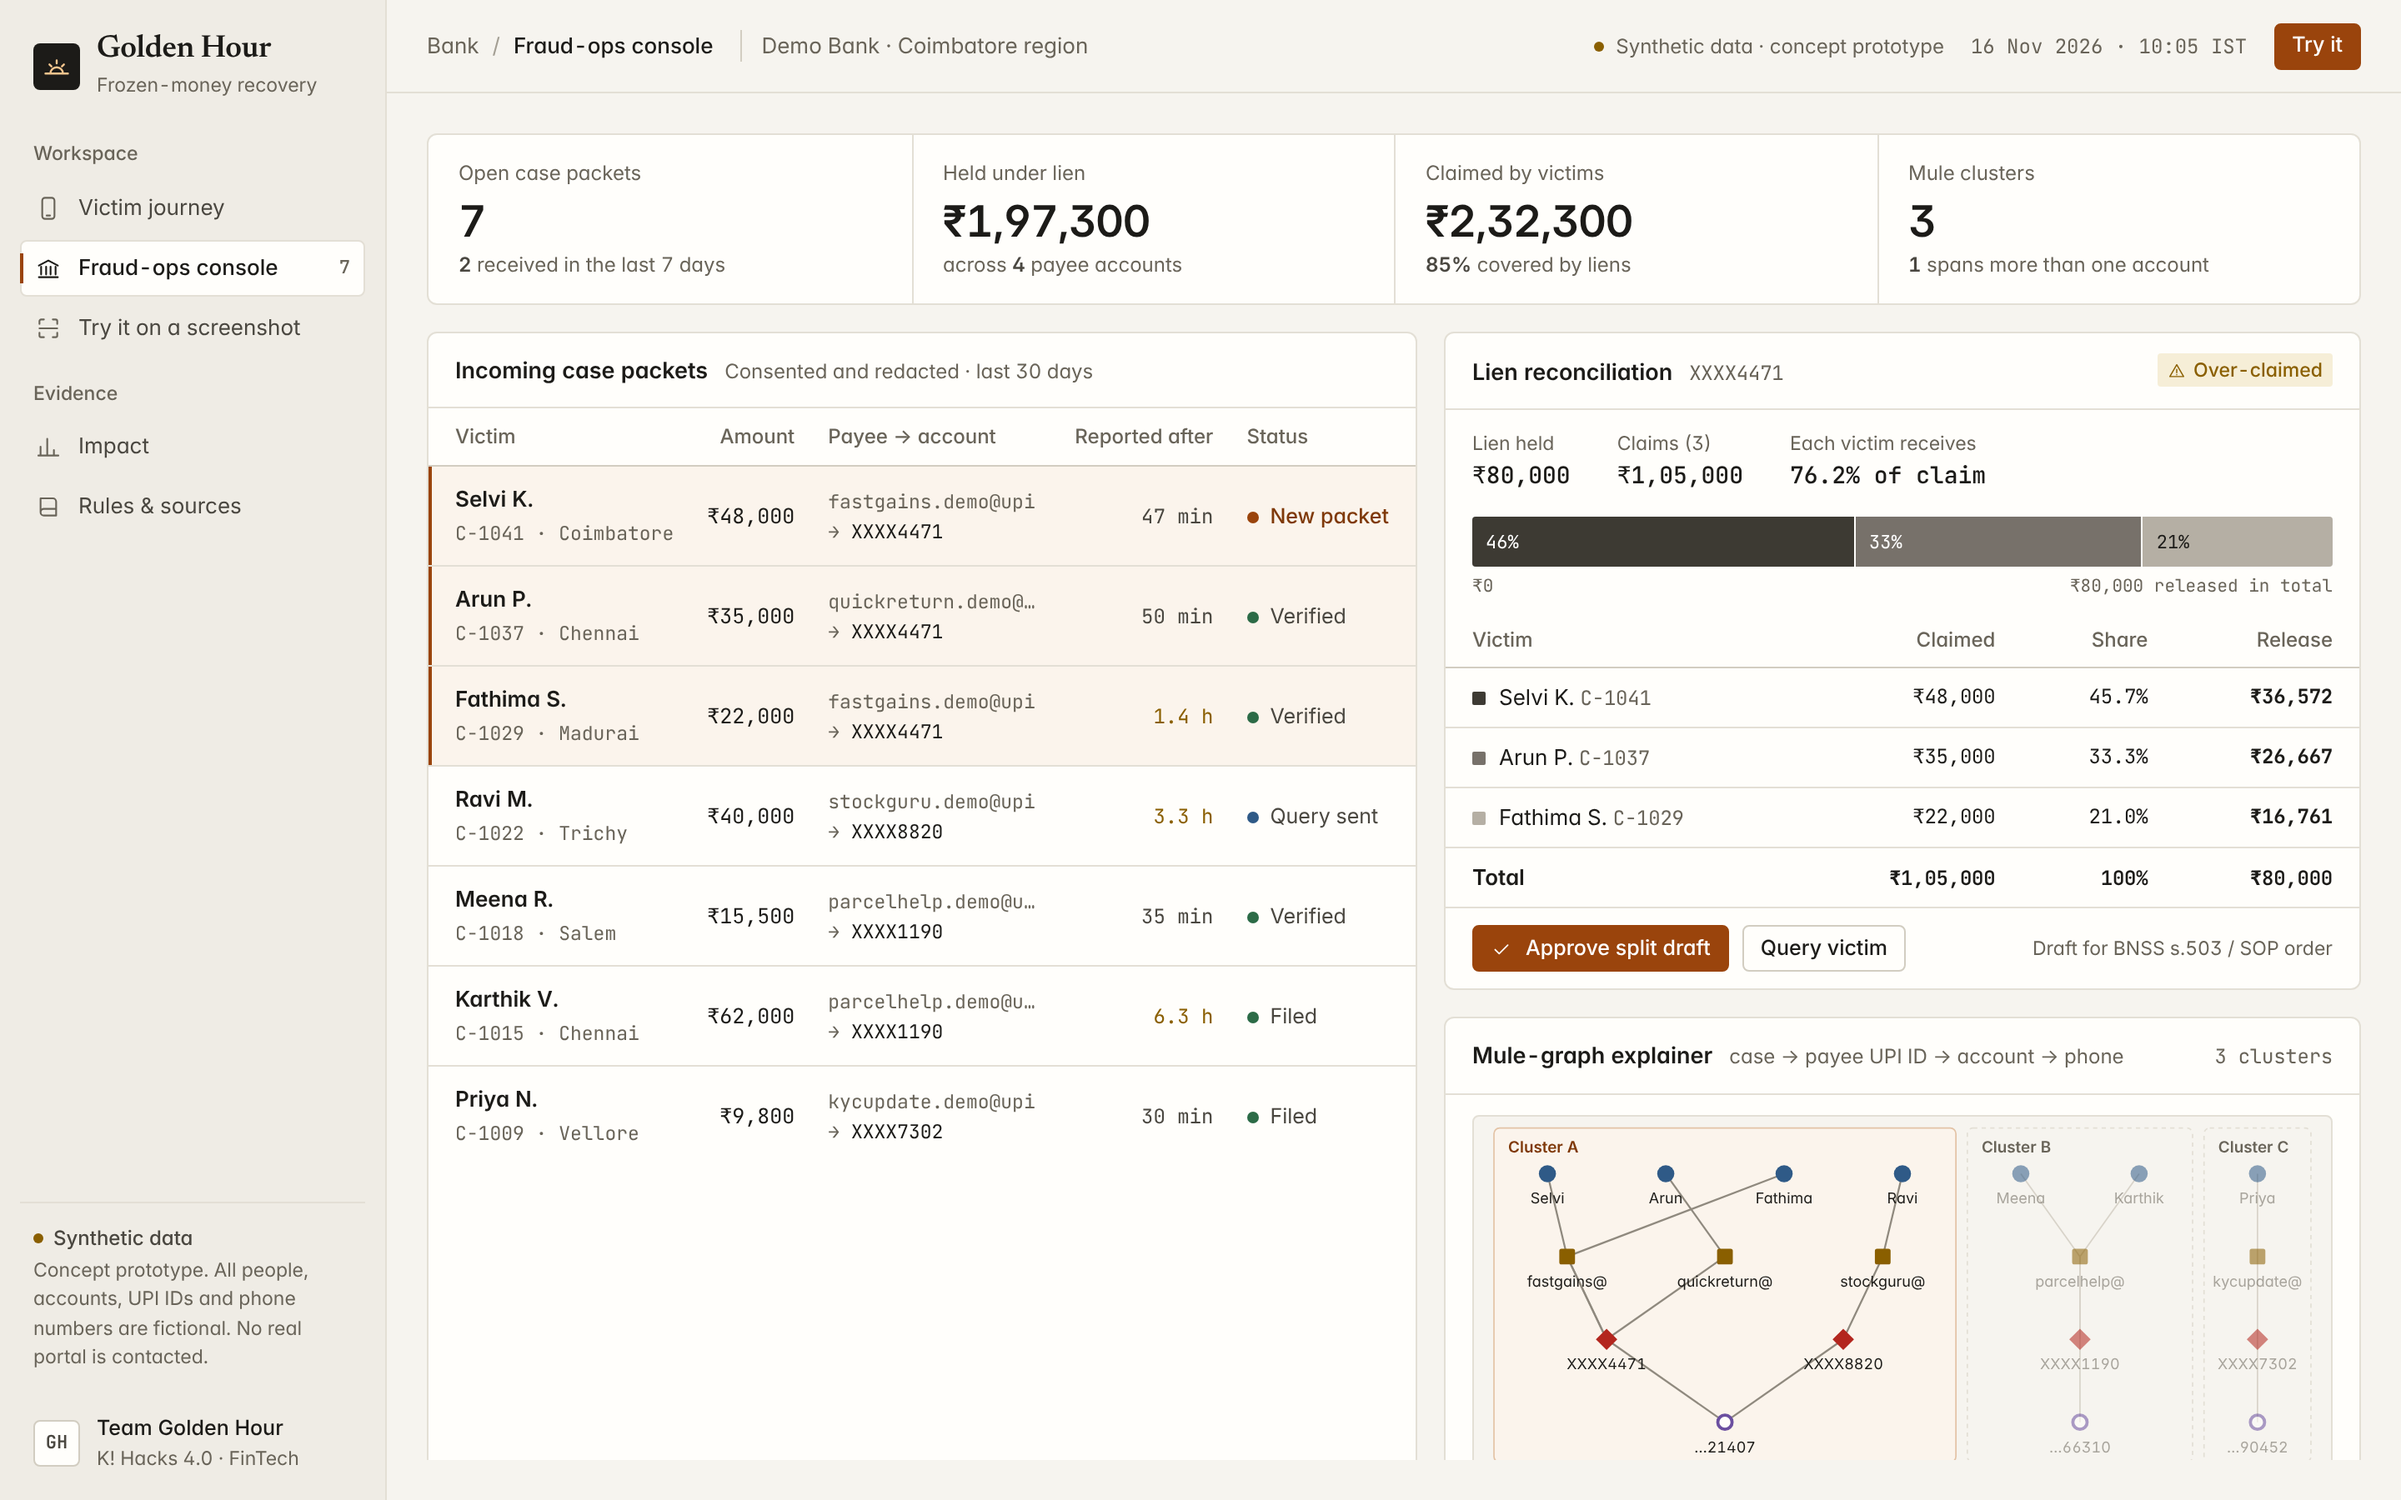
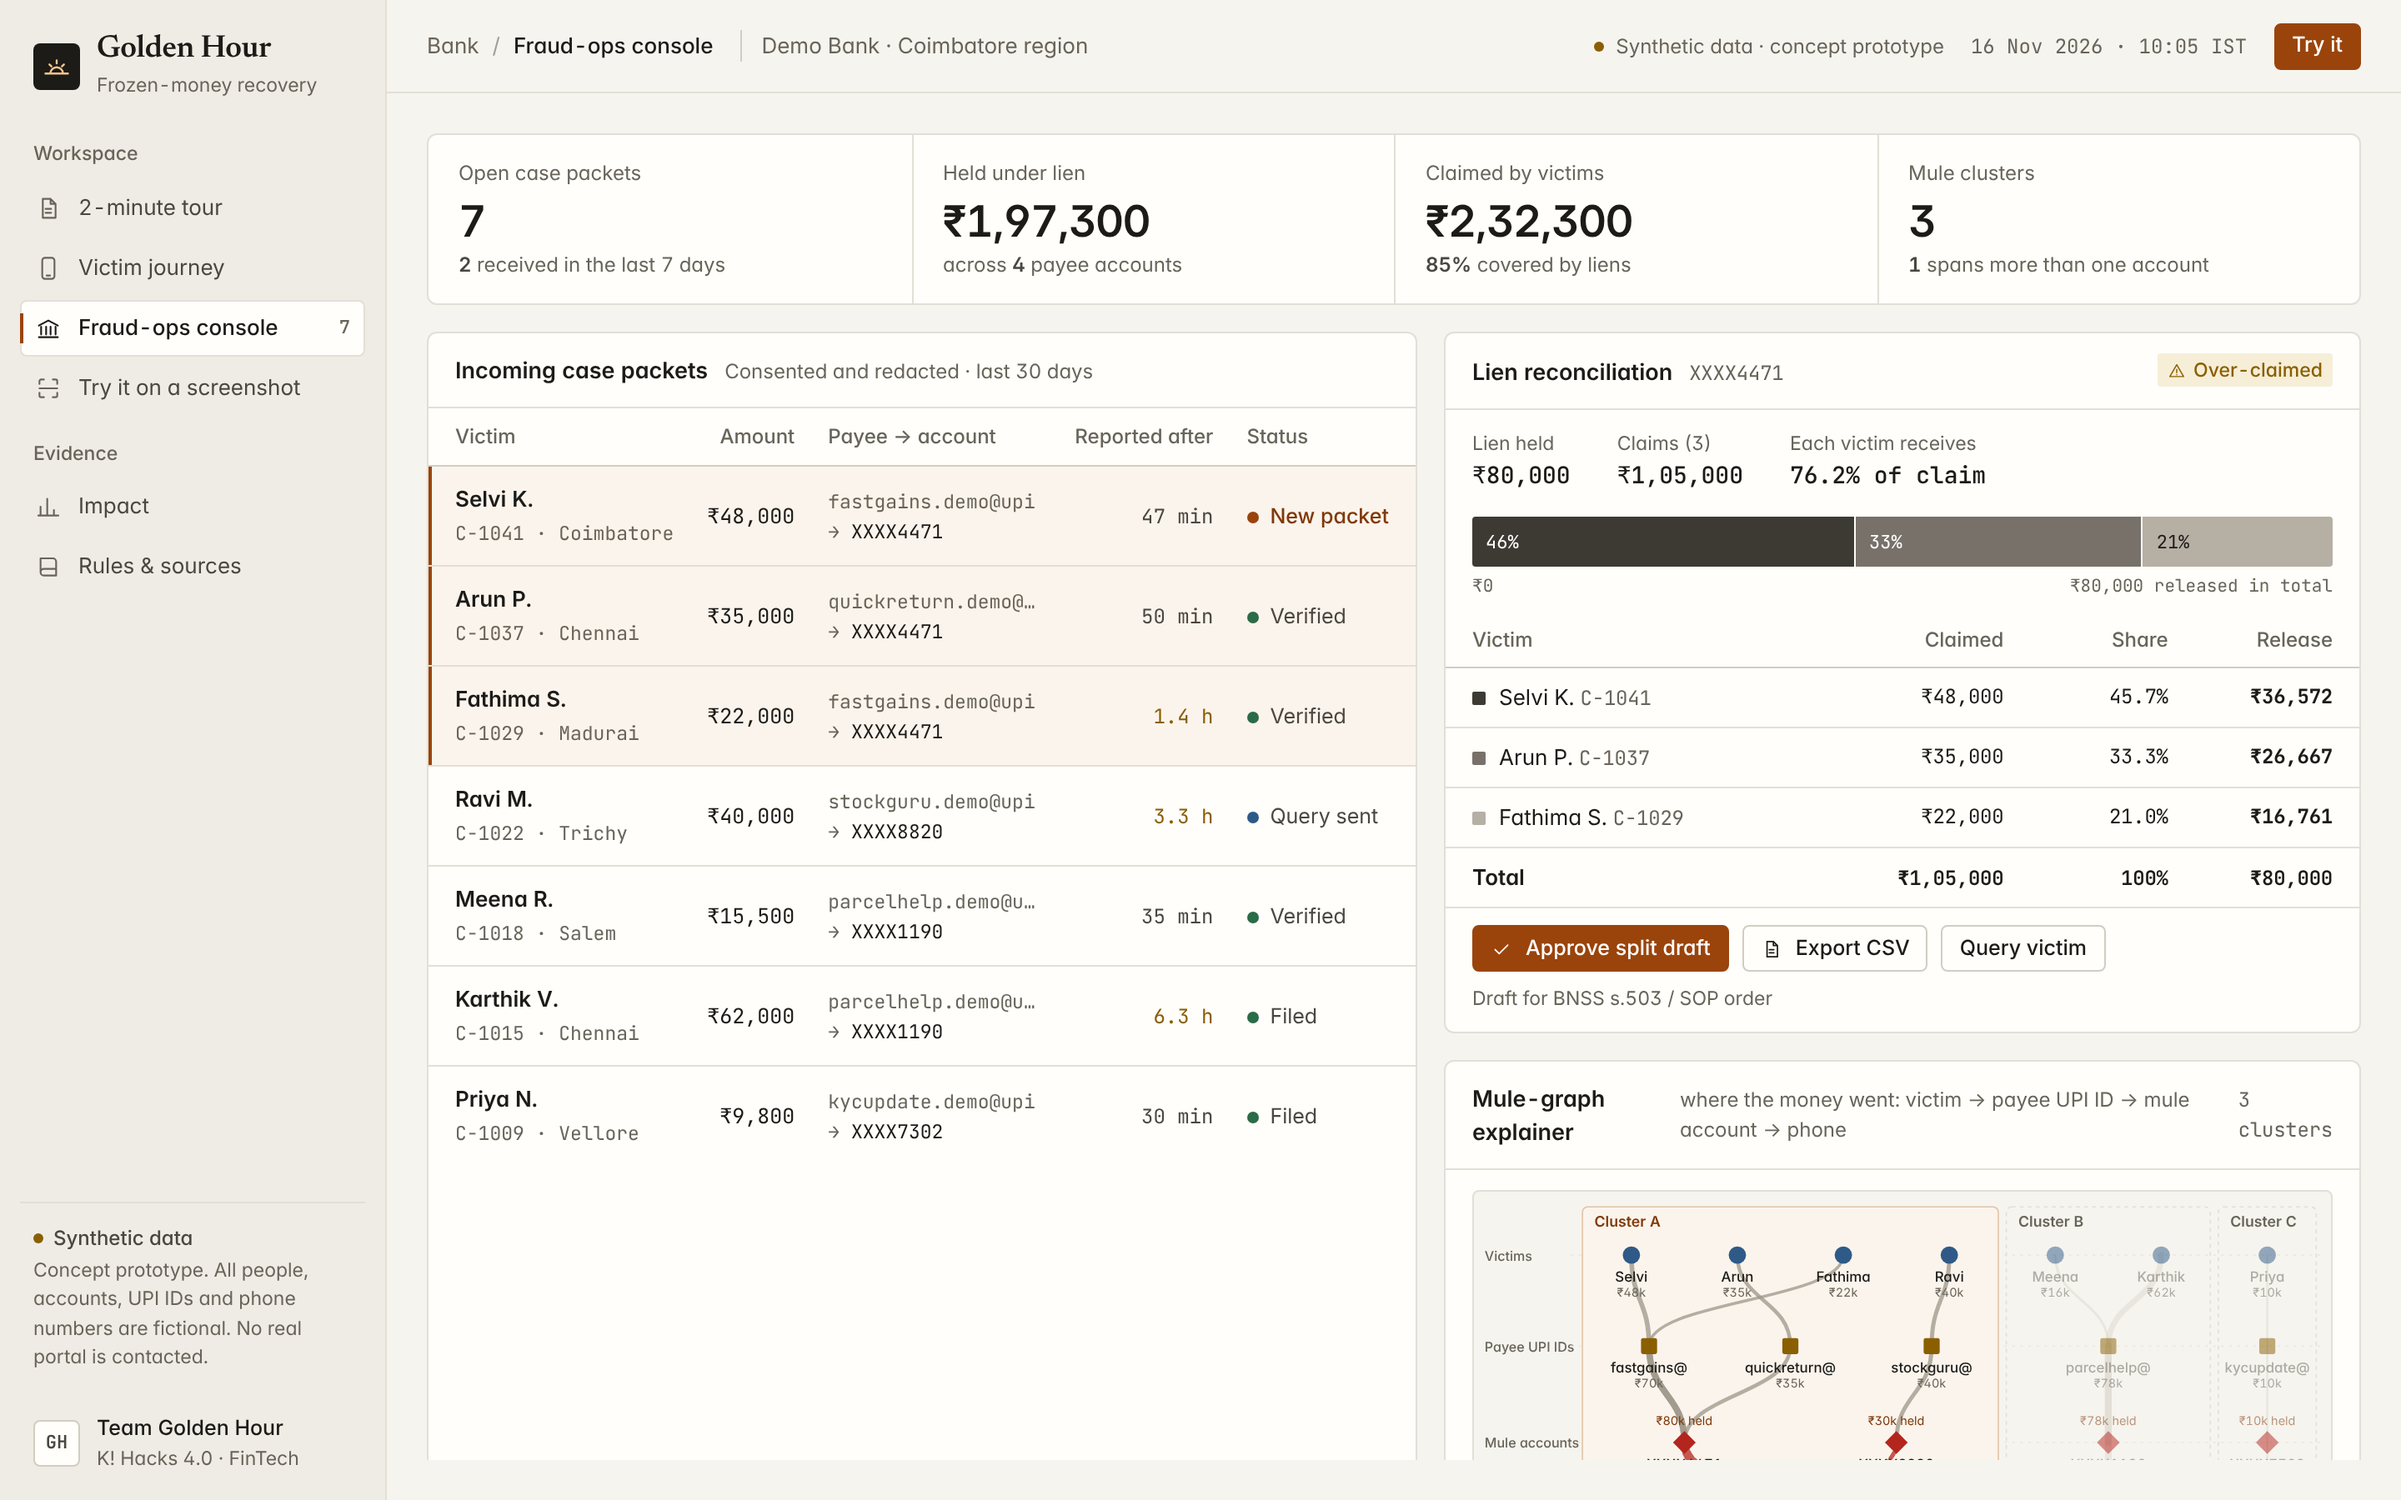
Fit the reconciliation card at laptop widths; re-shoot screenshots and tour stills
Export buttons wrap, the split table uses fixed columns, so the Release column
is never clipped at 1280-1440 px. Screenshots and tour stills now show the new
mule graph and console.

diff --git a/index.html b/index.html
@@ -396,8 +396,9 @@ details.raw-json summary { cursor: pointer; font-size: 12.5px; color: var(--ink-
 .recon table tr.tot td { border-top: 1px solid var(--line-2); font-weight: 600; }
 .recon td .muted { white-space: nowrap; }
 .sw { display: inline-block; width: 8px; height: 8px; border-radius: 1px; margin-right: 8px; vertical-align: 0; }
-.recon .foot { display: flex; align-items: center; gap: 8px; padding: 10px 16px; border-top: 1px solid var(--line); }
-.recon .foot .muted { font-size: 11.5px; margin-left: auto; }
+.recon .foot { display: flex; flex-wrap: wrap; align-items: center; gap: 8px; padding: 10px 16px; border-top: 1px solid var(--line); }
+.recon .foot .muted { font-size: 11.5px; flex-basis: 100%; }
+.recon { min-width: 0; } .recon table { width: 100%; table-layout: fixed; } .recon td:first-child, .recon th:first-child { width: 46%; overflow: hidden; text-overflow: ellipsis; white-space: nowrap; }
 .graphcard { display: grid; grid-template-rows: auto minmax(200px, 1fr) auto; min-height: 0; overflow: hidden; }
 .graphwrap { position: relative; margin: 12px 16px 0; border-radius: var(--r-2); background: var(--paper); border: 1px solid var(--line); min-height: 180px; }
 .graphwrap svg { width: 100%; height: 100%; }
